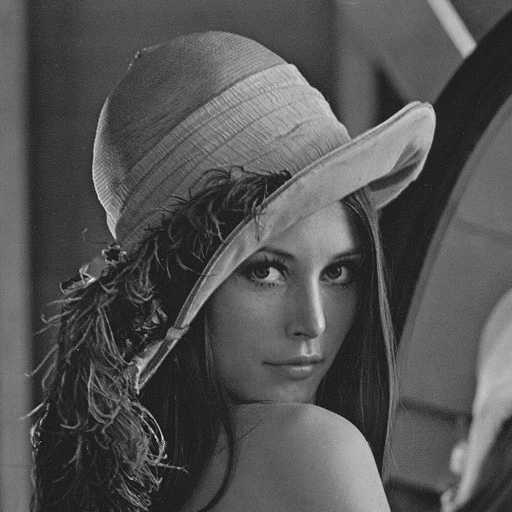
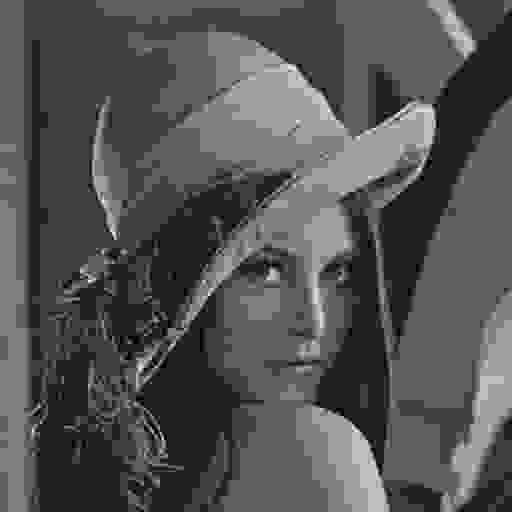
PSNR added

diff --git a/JPEG_implementation/src/decompression/InverseQuantization.java b/JPEG_implementation/src/decompression/InverseQuantization.java
@@ -6,17 +6,18 @@ import java.util.List;
 import org.opencv.core.CvType;
 import org.opencv.core.Mat;
 
+import compression.Quantization;
+
 public class InverseQuantization {
 
 	static double[] quant_mat = { 16, 11, 10, 16, 24, 40, 51, 61, 12, 12, 14, 19, 26, 58, 60, 55, 14, 13, 16, 24, 40,
 			57, 69, 56, 14, 17, 22, 29, 51, 87, 80, 62, 18, 22, 37, 56, 68, 109, 103, 77, 24, 35, 55, 64, 81, 104, 113,
 			92, 49, 64, 78, 87, 103, 121, 120, 101, 72, 92, 95, 98, 112, 100, 103, 99 };
 
-	static double qualityFactor = 100;
 	static Mat quantisMat = fillMat();
 
 	public static Mat fillMat() {
-		double quality = 101 - qualityFactor;
+		double quality = 101 - Quantization.getQualityFactor();
 		for (int i = 0; i < quant_mat.length; i++) {
 			quant_mat[i] = quant_mat[i] * quality;
 		}

diff --git a/JPEG_implementation/src/gui/GUI.java b/JPEG_implementation/src/gui/GUI.java
@@ -224,6 +224,12 @@ public class GUI extends JFrame {
 			// TODO Add label to show step
 			// TODO let the user choose the destination folder
 			// TODO let the user choose the quality factor
+			
+			Mat originalMat = Utils.imgToMat(filepath != null ? filepath : defaultImgPath);
+			Mat origMat = new Mat();
+			originalMat.convertTo(origMat, CvType.CV_32FC3);
+			System.out.println("PSNR: " + Core.PSNR(origMat, finalIMG));
+			
 		});
 
 		// Display the window.

diff --git a/JPEG_implementation/src/compression/Quantization.java b/JPEG_implementation/src/compression/Quantization.java
@@ -16,8 +16,12 @@ public class Quantization {
 	             49,  64,  78,  87,  103,  121,  120,  101,  
 	             72,  92,  95,  98,  112,  100,  103,   99};
 	
-	static double qualityFactor=100;
+	private static double qualityFactor=85;
 	static Mat quantisMat=fillMat();
+	
+	public static double getQualityFactor() {
+		return qualityFactor;
+	}
 
 	
 	public static Mat fillMat() {

diff --git a/JPEG_implementation/src/decompression/InverseZigZag.java b/JPEG_implementation/src/decompression/InverseZigZag.java
@@ -34,8 +34,7 @@ public class InverseZigZag {
 	}
 	
 	public static double[] convertToDouble(JPEGCategory input) {
-		if (input.getRunlength() < 0)
-			System.out.println("RLE " + input.getRunlength());
+		
 		double[] values = new double[input.getRunlength()+1];
 		for (int i = 0; i < input.getRunlength(); i++) {
 			values[i] = 0;

diff --git a/JPEG_implementation/src/utils/Utils.java b/JPEG_implementation/src/utils/Utils.java
@@ -15,7 +15,7 @@ public class Utils {
 
 	public static void setDecodedPred(double decodedPred) {
 		Utils.decodedPred = decodedPred;
-		System.out.println(decodedPred);
+		//System.out.println(decodedPred);
 	}
 
 	/**

diff --git a/JPEG_implementation/src/compression/Test.java b/JPEG_implementation/src/compression/Test.java
@@ -41,7 +41,7 @@ public class Test {
 		
 		String test = "1;2;3;4;5";
 		String[] test2 = test.split(";");
-		System.out.println(test2.length);
+		//System.out.println(test2.length);
 		
 }
 
